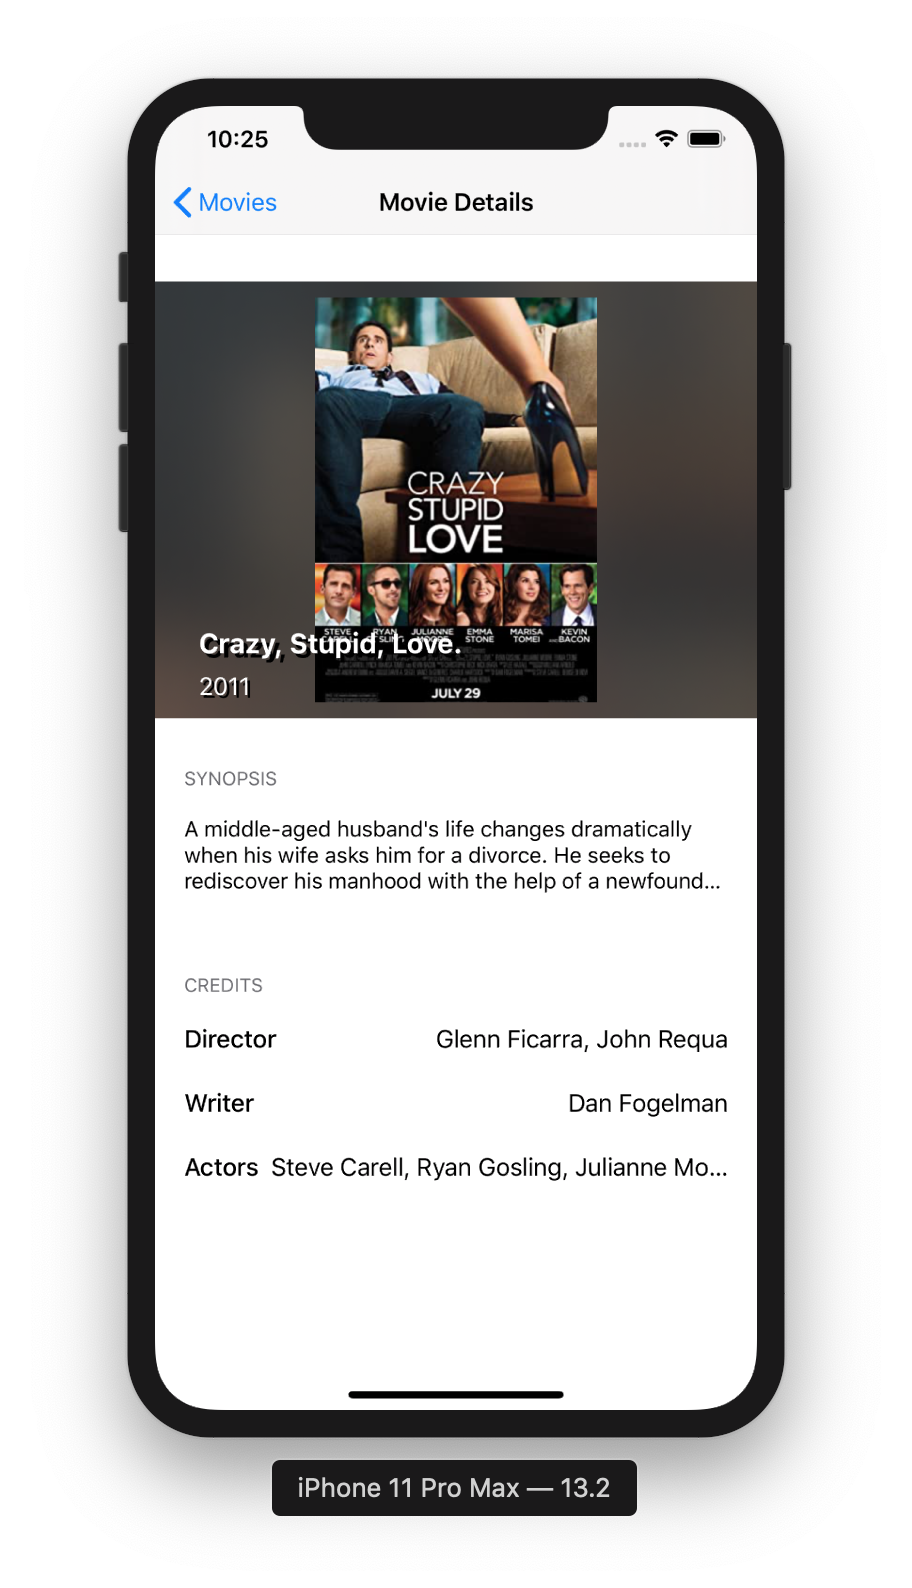
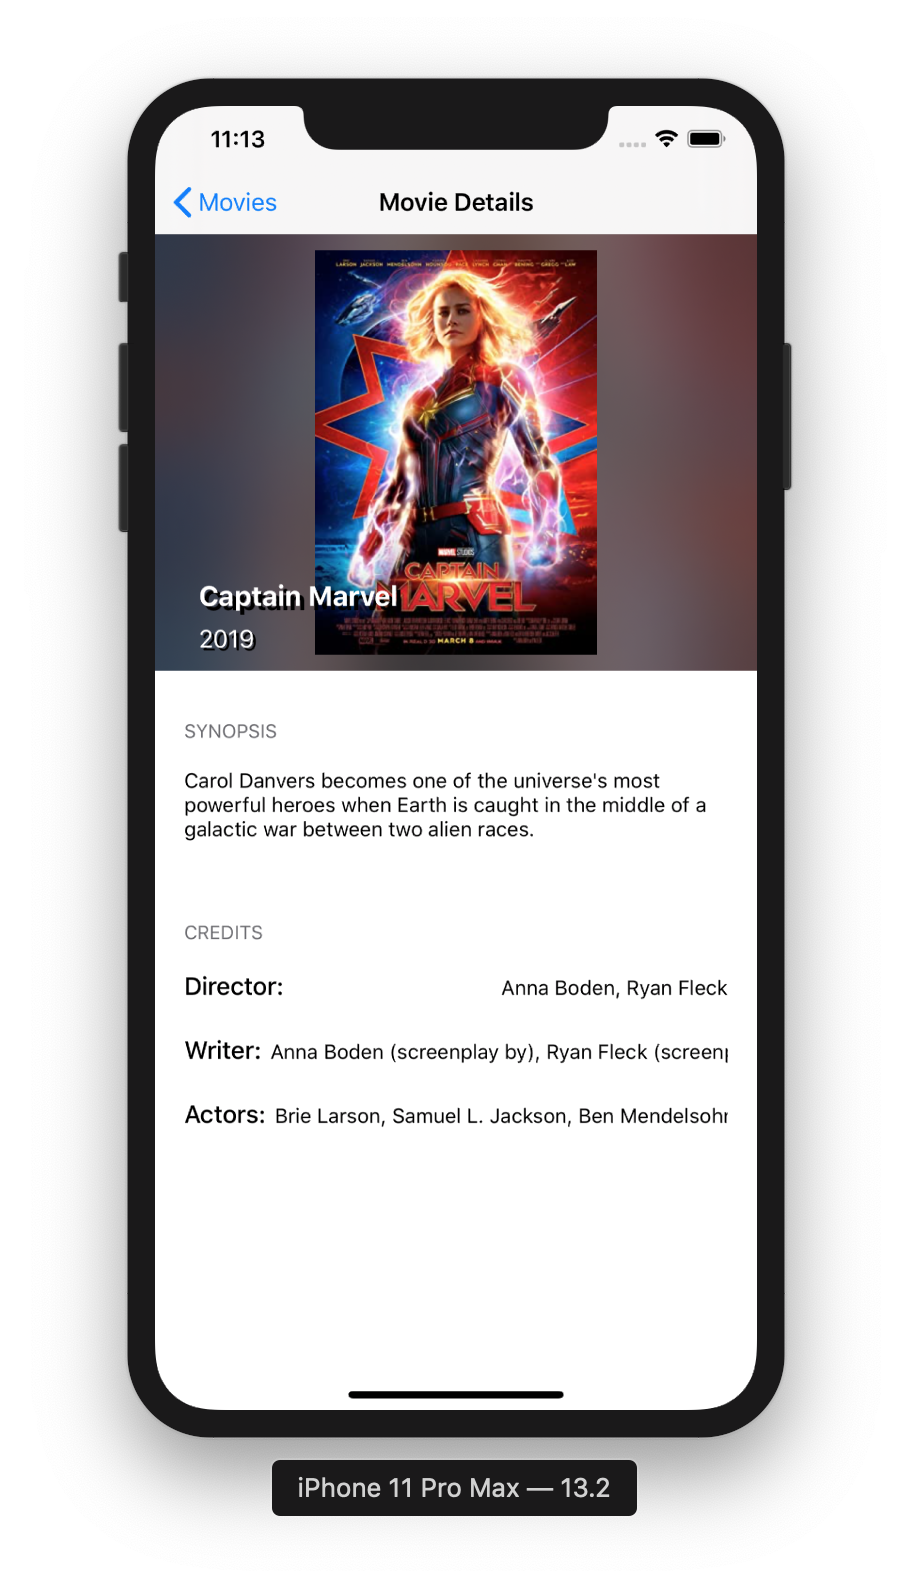
Ïmproved image download performance and fixed UI issue in details screen

Changed region(s): [[0.1535, 0.1234, 0.8289, 0.7406], [0.2149, 0.0617, 0.307, 0.0926]]

diff --git a/OMDB/Shared/Extensions/OMDBExtensions.swift b/OMDB/Shared/Extensions/OMDBExtensions.swift
@@ -9,22 +9,24 @@ import UIKit
 import CoreImage
 
 extension UIViewController {
-    func downloadImage(atURL imageURL: URL, forSize pointSize: CGSize, scale: CGFloat, completion:(UIImage?) -> Void){
-        let imageSourceOptions = [kCGImageSourceShouldCache: true] as CFDictionary
-        guard let imageSource = CGImageSourceCreateWithURL(imageURL as CFURL, imageSourceOptions) else {
-            completion(nil)
-            return
+    func downloadImage(atURL imageURL: URL, forSize pointSize: CGSize, scale: CGFloat, completion : @escaping (UIImage?) -> Void){
+        DispatchQueue.global(qos: .userInteractive).async {
+            let imageSourceOptions = [kCGImageSourceShouldCache: true] as CFDictionary
+            guard let imageSource = CGImageSourceCreateWithURL(imageURL as CFURL, imageSourceOptions) else {
+                completion(nil)
+                return
+            }
+            
+            let maxDimensionInPixels = max(pointSize.width, pointSize.height) * scale
+            let downloadSampledOptions = [kCGImageSourceCreateThumbnailFromImageAlways: true,
+                                          kCGImageSourceShouldCacheImmediately: true,
+                                          kCGImageSourceCreateThumbnailWithTransform: true,
+                                          kCGImageSourceThumbnailMaxPixelSize: maxDimensionInPixels] as CFDictionary
+            guard let downloadedSampledImage = CGImageSourceCreateThumbnailAtIndex(imageSource, 0, downloadSampledOptions) else {
+                completion(nil)
+                return
+            }
+            completion(UIImage(cgImage: downloadedSampledImage))
         }
-        
-        let maxDimensionInPixels = max(pointSize.width, pointSize.height) * scale
-        let downloadSampledOptions = [kCGImageSourceCreateThumbnailFromImageAlways: true,
-                                      kCGImageSourceShouldCacheImmediately: true,
-                                      kCGImageSourceCreateThumbnailWithTransform: true,
-                                      kCGImageSourceThumbnailMaxPixelSize: maxDimensionInPixels] as CFDictionary
-        guard let downloadedSampledImage = CGImageSourceCreateThumbnailAtIndex(imageSource, 0, downloadSampledOptions) else {
-            completion(nil)
-            return
-        }
-        completion(UIImage(cgImage: downloadedSampledImage))
     }
 }

diff --git a/OMDB/Features/MovieDetails/MovieDetailsViewController.swift b/OMDB/Features/MovieDetails/MovieDetailsViewController.swift
@@ -23,6 +23,7 @@ class MovieDetailsViewController: UITableViewController {
 
     override func viewDidLoad() {
         super.viewDidLoad()
+        tableView.tableHeaderView = UIView(frame: CGRect(x: 0, y: 0, width: 0, height: 0.1))
         reloadMovieInformation()
         dataManager.fetchData()
     }
@@ -37,13 +38,13 @@ extension MovieDetailsViewController: MovieDetailsDataManagerProtocol {
     
     func reloadMovieInformation() {
         DispatchQueue.main.async {
-            //self.activityIndicator.stopAnimating()
             self.movieTitle.text = self.dataManager.currentMovie.title
             self.releaseDate.text = self.dataManager.currentMovie.releaseDate
             self.synopsis.text = self.dataManager.currentMovie.overview
             self.director.detailTextLabel?.text = self.dataManager.currentMovie.director
             self.writer.detailTextLabel?.text = self.dataManager.currentMovie.writer
             self.actor.detailTextLabel?.text = self.dataManager.currentMovie.actors
+            self.tableView.reloadData()
 
             if let backdropImageURL = URL(string: self.dataManager.currentMovie.posterPath),
                 let imagecell = self.tableView.cellForRow(at: IndexPath(row: 0, section: 0)) {

diff --git a/OMDB/Features/MovieListing/MovieListViewController.swift b/OMDB/Features/MovieListing/MovieListViewController.swift
@@ -15,14 +15,14 @@ class MovieListViewController: BaseCollectionViewController {
     @IBOutlet var activityIndicator: UIActivityIndicatorView!
     private let movieListCellIdentifier = "MovieListViewCell"
     private var dataManager: MovieListDataManager!
-    private var searchText: String = ""
+    private var searchText: String = "Marvel"
         
     override func viewDidLoad() {
         super.viewDidLoad()
         print(#function)
         dataManager = MovieListDataManager(delegate: self)
         activityIndicator.startAnimating()
-        dataManager.fetchData("Marvel")
+        dataManager.fetchData(self.searchText)
     }
     
 //MARK: - Navigation
@@ -52,6 +52,7 @@ extension MovieListViewController {
         cell.accessibilityIdentifier = "\(dataManager.getMoviesSearchResults[indexPath.row].id)"
         let currentMovie = dataManager.getMoviesSearchResults[indexPath.row]
         cell.movieTitle.text = currentMovie.title
+        cell.imageView.image = nil
         if let backdropImageURL = URL(string: dataManager.getMoviesSearchResults[indexPath.row].posterPath) {
             let movieImageSize = cell.imageView.bounds.size
             let scale = collectionView.traitCollection.displayScale
